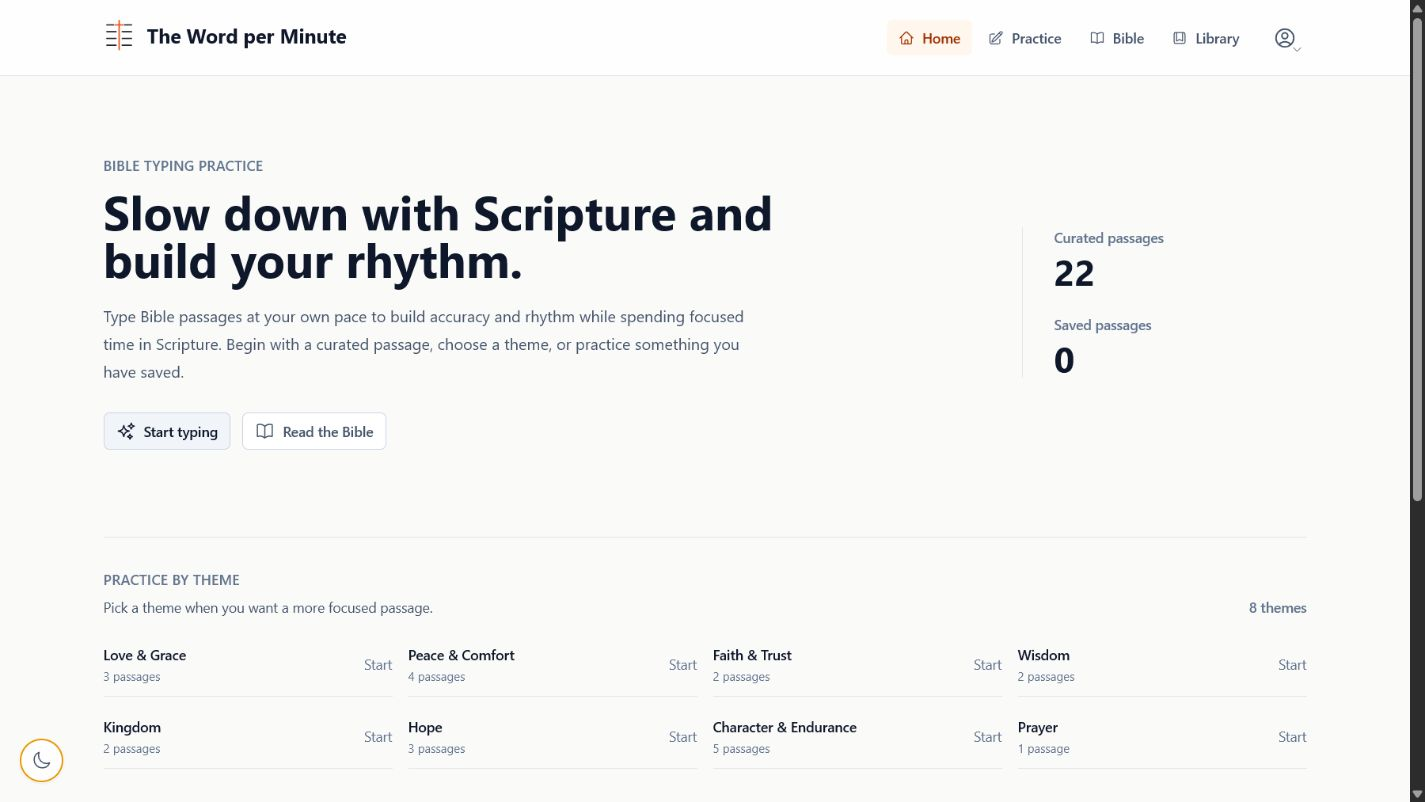
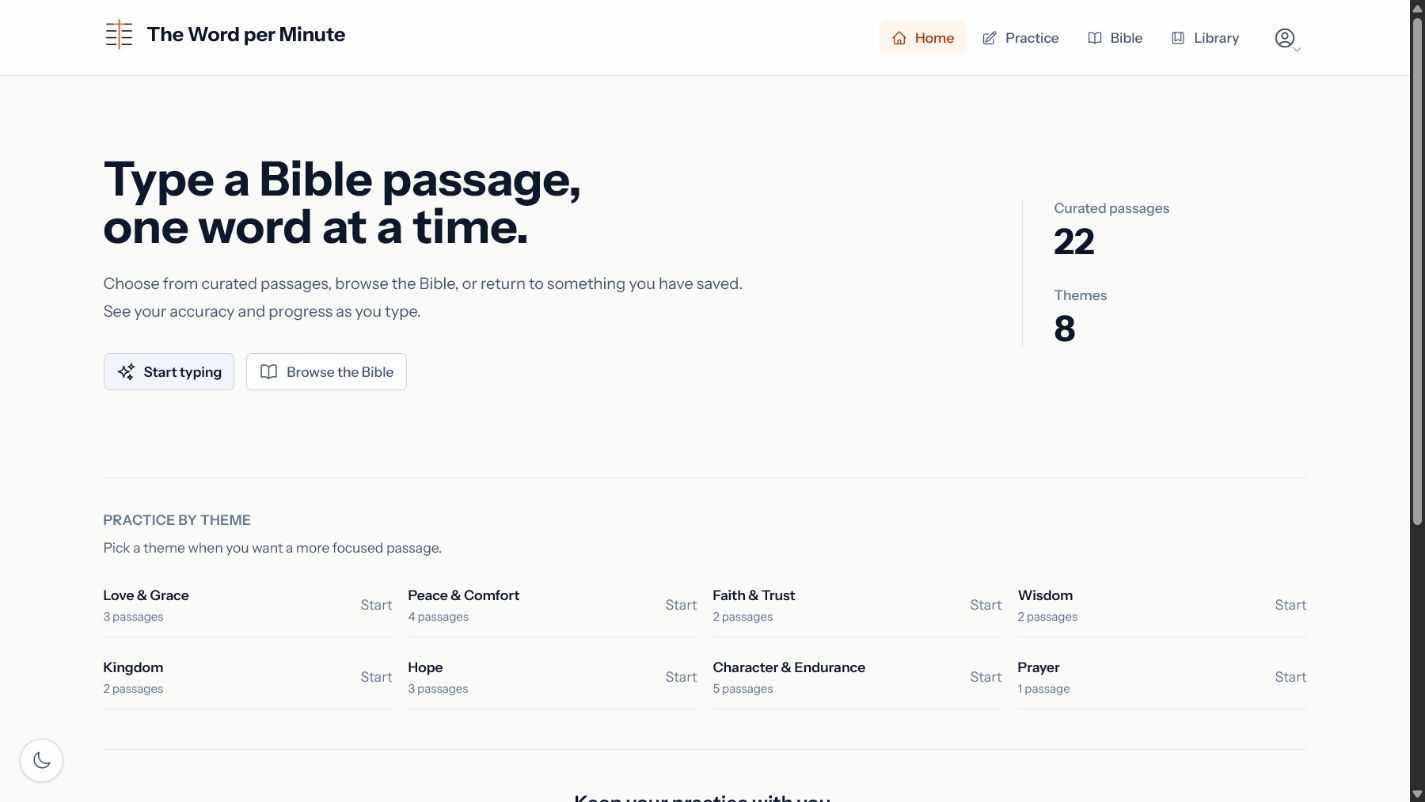
update branding documentation

diff --git a/docs/architecture.md b/docs/architecture.md
@@ -280,6 +280,7 @@ The schema and security model are documented in [`data-and-security.md`](data-an
 The visual system uses semantic tokens rather than direct palette values for ordinary surfaces:
 
 - `theme.css` maps light and dark CSS variables into Tailwind v4 tokens through `@theme inline`.
+- `main.tsx` loads the self-hosted Instrument Sans variable font through Fontsource, and `theme.css` assigns it to Tailwind's default sans token.
 - `index.css` imports Tailwind and the theme, defines global motion helpers, reserves a stable scrollbar gutter, and honours `prefers-reduced-motion`.
 - `shared/ui/Button.tsx` supplies the ordinary action hierarchy.
 - Bespoke controls such as navigation tabs and verse buttons may retain local styling when their interaction differs from an ordinary button.

diff --git a/CHANGELOG.md b/CHANGELOG.md
@@ -13,6 +13,12 @@ During public alpha:
 
 ## [Unreleased]
 
+### Changed
+
+- Refined the Home hero copy, action wording, and signed-out statistics so the first screen explains how to begin and what feedback appears while typing.
+- Corrected heading hierarchy across the application shell, Home, Profile, and practice-history cards.
+- Adopted self-hosted Instrument Sans as the default interface typeface.
+
 ## [0.1.0] - 2026-07-20
 
 This is the first versioned public-alpha baseline. The application had already undergone substantial development before SemVer-inspired version tracking began; that earlier work remains preserved in the development history below.

diff --git a/README.md b/README.md
@@ -45,7 +45,7 @@ The practice experience keeps the selected passage at the centre of the page whi
 | --- | --- |
 | Application | React, TypeScript, and Vite |
 | Routing | React Router |
-| Interface | Tailwind CSS, Headless UI, and Heroicons |
+| Interface | Tailwind CSS, Headless UI, Heroicons, and self-hosted Instrument Sans |
 | Authentication and cloud data | Supabase Auth and Postgres |
 | Hosting | Vercel |
 
